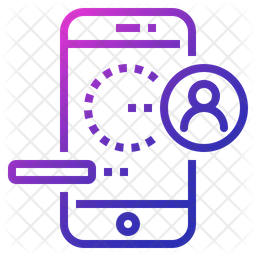
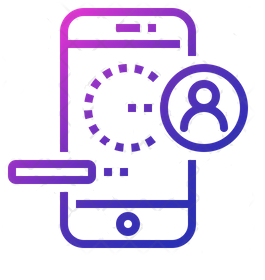
fixed login picture now it pretty

Changed region(s): [[0.0, 0.0, 0.9688, 0.9688]]

diff --git a/public/members.html b/public/members.html
@@ -49,14 +49,14 @@
         <li class="list-group-item d-flex justify-content-between align-items-center">
           Add New Client
           <button id="addClient" class="btn btn-secondary" type="button" aria-haspopup="true" aria-expanded="false">
-          <i class="fas fa-plus"></i>
+            <i class="fas fa-plus"></i>
           </button>
         </li>
         <li class="list-group-item d-flex justify-content-between align-items-center">
           Add Something Else
           <button id="addsomething" class="btn btn-secondary" type="button" aria-haspopup="true" aria-expanded="false">
             <i class="fas fa-plus"></i>
-            </button>
+          </button>
         </li>
       </ul>
     </div>
@@ -65,9 +65,16 @@
         <div class="row">
           <div class="col-md-9 col-md-offset-3">
             <div class="jumbotron jumbotron-fluid">
-              <h1 class="display-4" id="welcome-user">Welcome <span class="member-name"></span></h1>
-              <p class="lead">Your space to connect to clients.
-              </p>
+              <div class="row">
+                <div class="col-md-9">
+                  <h1 class="display-4" id="welcome-user">Welcome <span class="member-name"></span></h1>
+                  <p class="lead">Your space to connect to clients.</p>
+                </div>
+                <div class="col-md-3">
+                  <!-- <img class="content-right"
+                    src="https://cdn.iconscout.com/icon/premium/png-128-thumb/user-1681224-1427601.png"> -->
+                </div>
+              </div>
             </div>
             <br>
             <div class="dropdown">
@@ -84,7 +91,8 @@
             </div>
             <h4 class="text-right">Search for a client:</h4>
             <h3 class="text-right">
-              <input id="searchBox" type="text" placeholder="Search"><button id="searchSubmit"><i class="fas fa-search"></i></button>
+              <input id="searchBox" type="text" placeholder="Search"><button id="searchSubmit"><i
+                  class="fas fa-search"></i></button>
             </h3>
 
             <!-- All Clients box -->

diff --git a/public/contactForm.html b/public/contactForm.html
@@ -29,18 +29,19 @@
           <a class="navbar-brand" href="/logout">Logout</a>
         </span>
       </nav>
-    <div class="container" id="contactForm-container">
+    <div id="contactForm-container" class="container">
         <div class="row">
             <div class="col-md-12">
                 <h2>Contact Client</h2>
+                <hr class="my-4">
                 <form class="contactMsg">
                     <div class="form-group mt-10">
                         <label for="subject">Subject</label>
-                        <input type="text" class="form-control" id="subject" placeholder="Subject">
+                        <input type="text" id= "text-area-control" class="form-control" id="subject" placeholder="Subject">
                     </div>
                     <div class="form-group mt-10">
                         <label for="message">Message</label>
-                        <textarea class="form-control" id="message" rows="3"></textarea>
+                        <textarea id= "text-area-control" class="form-control" id="message" rows="3"></textarea>
                     </div>
                     
                     <button id="sendMsg" type="submit" class="btn btn-default">Send Message</button>

diff --git a/public/stylesheets/style.css b/public/stylesheets/style.css
@@ -40,7 +40,8 @@ form.login {
   max-width: 100%;
 }
 #user-login-img {
-  margin-top: 30%;   
+  margin-top: 30%; 
+    
 }
 .infoForm-group {
   font-size: 20px;
@@ -102,6 +103,9 @@ h2 {
 }
 .navbar-brand{
   color: aliceblue;
+}
+.content-right {
+  float: right;
 }
 #members-page, #newClient-page, #clientInfo-page {
   background-color: rgb(255, 255, 255);
@@ -221,6 +225,9 @@ tr {
 }
 
 /* Add Client Page */
+#jumbo-addClient {
+  color: rgb(74, 9, 134);
+}
 #jumboclient-btn {
   background-color: rgb(253, 108, 82);
 }
@@ -235,6 +242,26 @@ tr {
 }
 
 #newclient-btn {
+  border-radius: 100px;
+  background-color: rgb(253, 108, 82);
+  color: white;
+  margin-top: 20px;
+  padding: 10px;
+}
+
+/* Contact Page */ 
+#contactForm-container {
+  border-radius: 10px;
+  border: rgb(231, 229, 229);
+  padding: 10px;
+}
+#text-area-control {
+  border-radius: 10px;
+  border: none;
+  background-color:  rgb(247, 244, 244);
+  padding: 10px;
+}
+#sendMsg {
   border-radius: 100px;
   background-color: rgb(253, 108, 82);
   color: white;

diff --git a/public/newClient.html b/public/newClient.html
@@ -33,7 +33,7 @@
   </nav>
   <div id="newClient-container" class="container">
     <div class="jumbotron">
-      <h1 class="display-4">Add to My Client List</h1>
+      <h1 id="jumbo-addClient" class="display-4">Add to My Client List</h1>
       <p class="lead">Your space to add clients.</p>
       <hr class="my-4">
       <!-- <p>It uses utility classes for typography and spacing to space content out within the larger container.</p>

diff --git a/public/login.html b/public/login.html
@@ -27,7 +27,7 @@
     <div class="row">
       <div class="column filter-image" class="col-md-6">
         <img id="user-login-img"
-          src="https://cdn.iconscout.com/icon/premium/png-256-thumb/mobile-login-interface-1681234-1427611.png"
+          src="../img/connect.png"
           alt="User Login">
       </div>
       <div class="column" class="col-md-6">
